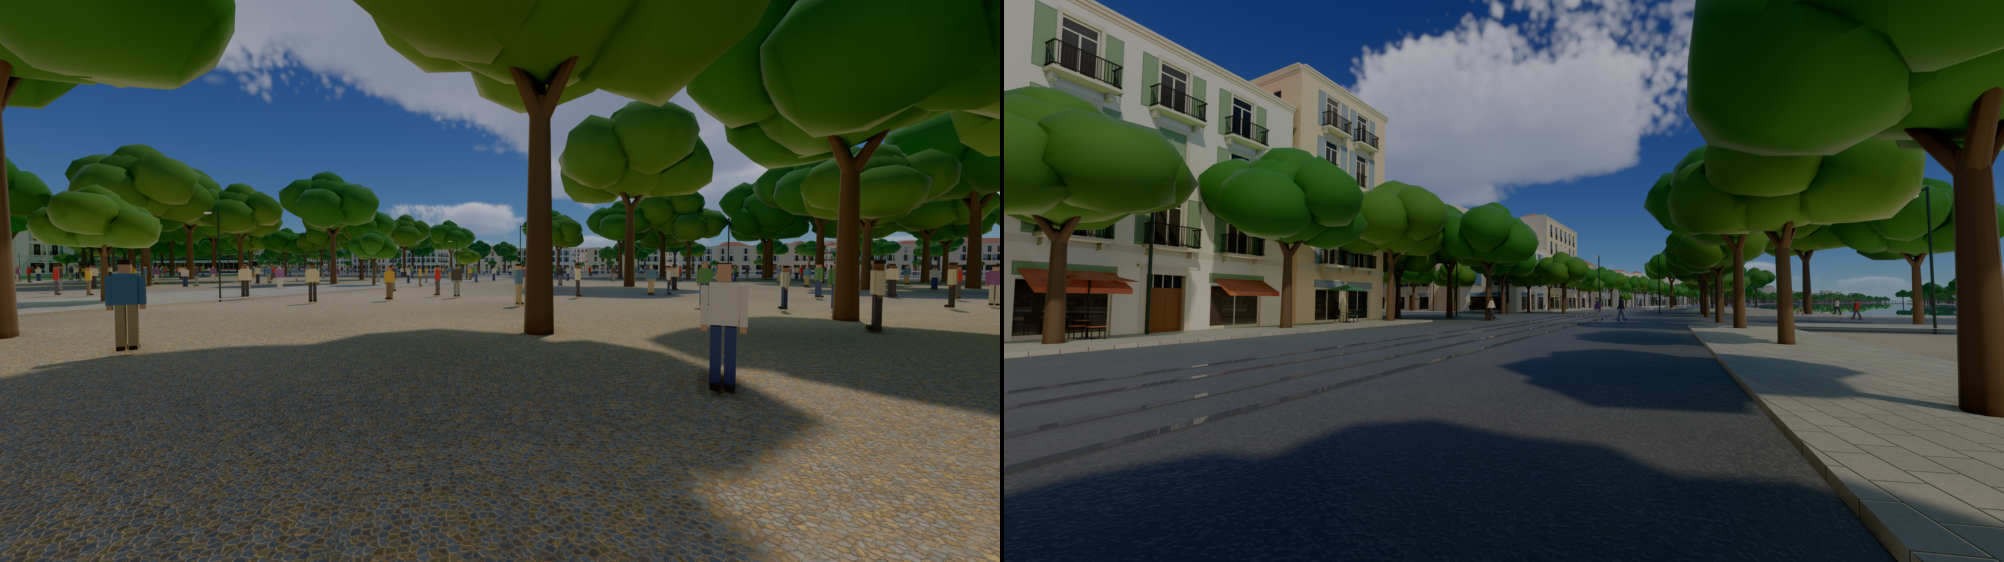
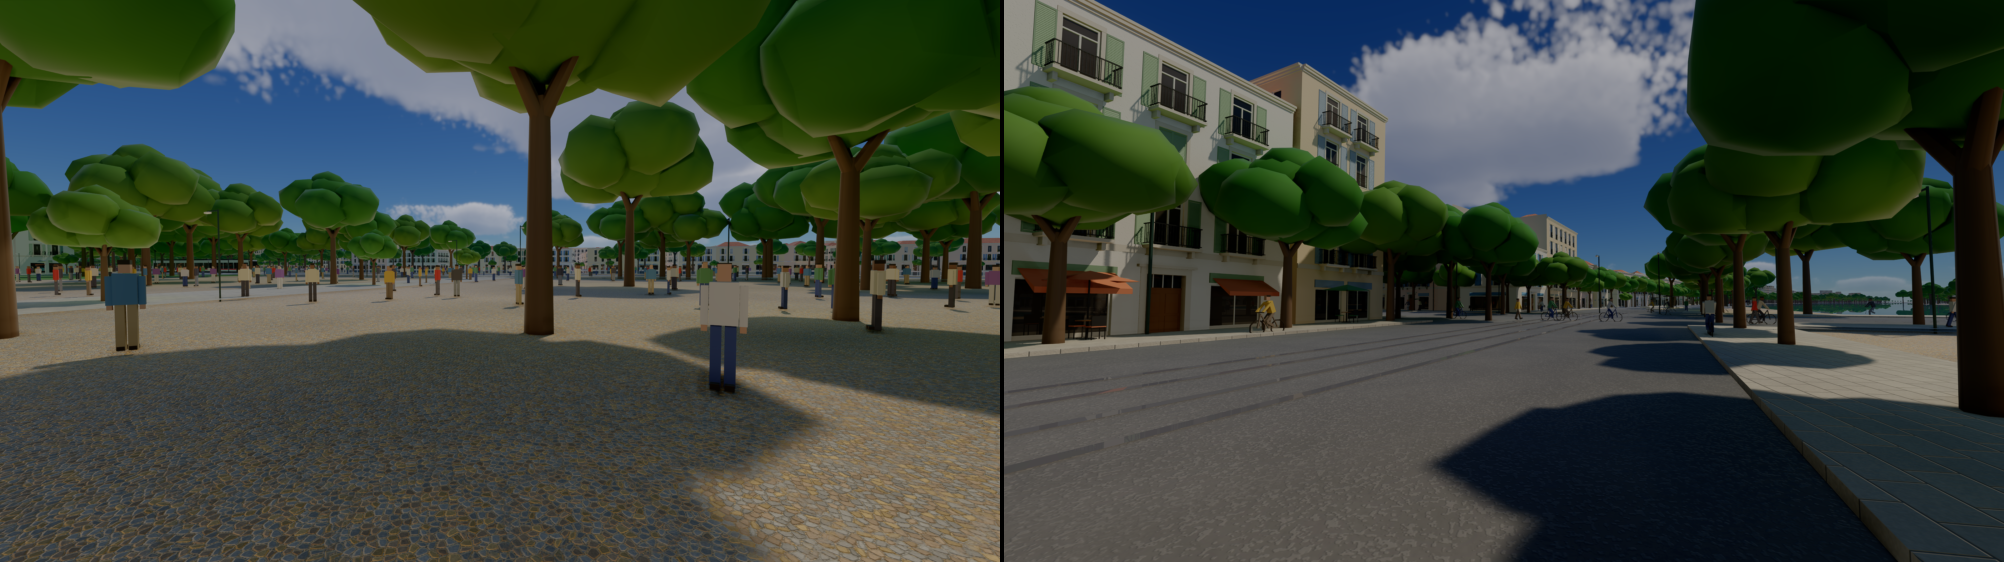
Crowd: cyclists in the carriageway's lanes (D-059's step 6)
forge_geom::figures::cyclist: a rider upright on a city bike. Trips quicker than a walk but no
quicker than 6.5 m/s are drawn riding in the right lane of each street on their way; the
walkers keep the pavements; faster trips ride the trams and are not drawn yet. Each palette
now has three meshes: walking, standing, riding.

diff --git a/demos/city-plan/src/crowd.rs b/demos/city-plan/src/crowd.rs
@@ -1,10 +1,12 @@
-//! The population on foot round the camera (D-059's step 6; `population-simulation.md`'s T0: the
-//! drawn crowd is the real population). The plan's people (`forge_sim::population`) run on the
-//! game's clock, four game seconds a real second. Those walking within [`REACH`] of the camera
-//! are drawn as placeholder figures (`forge_geom::figures`) on the pavements of their route:
-//! the road graph's shortest way (A*) from the street nearest where they set out to the street
-//! nearest where they go, walked at the pace their trip's time gives. Trips quicker than a walk
-//! (by bike or tram) are not drawn yet.
+//! The population on the streets round the camera (D-059's step 6; `population-simulation.md`'s
+//! T0: the drawn crowd is the real population). The plan's people (`forge_sim::population`) run
+//! on the real clock here (see [`TIME_SCALE`]). Those within [`REACH`] of the camera are drawn as
+//! placeholder figures (`forge_geom::figures`):
+//! - on their way, along the road graph's shortest way (A*) from the street nearest where they set
+//!   out to the street nearest where they go, at the pace their trip's time gives: walking on the
+//!   pavement, or riding a bike in the carriageway's right lane when quicker than a walk (trips
+//!   quicker than a bike ride the trams, and are not drawn yet);
+//! - in a park, standing about it.
 
 use std::cmp::Reverse;
 use std::collections::{BinaryHeap, HashMap};
@@ -18,7 +20,7 @@ use glam::{DVec2, Vec2, Vec3};
 
 /// The figures' palettes.
 pub const GROUPS: usize = 8;
-/// Figures a mesh (a palette walking, or standing) shows at most.
+/// Figures a mesh (a palette walking, standing or riding) shows at most.
 pub const PER_MESH: usize = 60;
 /// How far round the camera people are drawn, metres.
 const REACH: f64 = 220.0;
@@ -30,13 +32,15 @@ const TIME_SCALE: f64 = 1.0;
 const NEW_ROUTES: usize = 40;
 /// The fastest a drawn walker goes, m/s.
 const WALK_MAX: f64 = 2.2;
+/// The fastest a drawn cyclist goes, m/s; faster trips ride the trams.
+const RIDE_MAX: f64 = 6.5;
 
-/// A walk along the streets: its points and, per segment, how far right of the line the
-/// pavement runs.
+/// A way along the streets: its points and, per segment, its street's half width and its
+/// pavement's level.
 struct Route {
     points: Vec<DVec2>,
     along: Vec<f64>,
-    side: Vec<f64>,
+    half: Vec<f64>,
     level: Vec<f32>,
 }
 
@@ -45,9 +49,9 @@ impl Route {
         self.along[self.along.len() - 1]
     }
 
-    /// The point `s` metres along, on the pavement to the right, the way it faces and the
-    /// pavement's level.
-    fn at(&self, s: f64) -> (DVec2, DVec2, f32) {
+    /// The point `s` metres along, on the right: the pavement on foot, the carriageway's lane
+    /// riding; the way it faces and the ground's level there.
+    fn at(&self, s: f64, riding: bool) -> (DVec2, DVec2, f32) {
         let s = s.clamp(0.0, self.length());
         let i = self
             .along
@@ -63,11 +67,13 @@ impl Route {
         let dir = (b - a).normalize_or_zero();
         // In the plan's frame (y south) the right of the way is (-dy, dx).
         let right = DVec2::new(-dir.y, dir.x);
-        (
-            a + (b - a) * t + right * self.side[i - 1],
-            dir,
-            self.level[i - 1],
-        )
+        let half = self.half[i - 1];
+        let (side, level) = if riding {
+            ((half - 4.5).max(1.2), 0.16)
+        } else {
+            ((half - 2.0).max(1.0), self.level[i - 1])
+        };
+        (a + (b - a) * t + right * side, dir, level)
     }
 }
 
@@ -131,8 +137,8 @@ impl Crowd {
         for (i, e) in plan.roads.edges.iter().enumerate() {
             adj[e.a as usize].push((e.b, i as u32, true));
             adj[e.b as usize].push((e.a, i as u32, false));
-            // The pavement: two metres in from the street's edge; the avenues' raised.
-            let side = (e.profile.width() * 0.5 - 2.0).max(1.0);
+            // The street's half width, and its pavement's level: the avenues' raised.
+            let side = e.profile.width() * 0.5;
             let level = match e.profile {
                 Profile::TramAvenue | Profile::Avenue => 0.30,
                 _ => 0.16,
@@ -169,12 +175,12 @@ impl Crowd {
     }
 
     /// The figures to draw round `camera` (the world's x and z): for each of the
-    /// `2 × GROUPS` meshes in order (each palette walking, then standing), up to [`PER_MESH`]
+    /// `3 × GROUPS` meshes in order (each palette walking, standing, riding), up to [`PER_MESH`]
     /// places and turns.
     pub fn figures(&mut self, camera: Vec2) -> Vec<Vec<(Vec3, f32)>> {
         let half = self.size * 0.5;
         let c = DVec2::new(f64::from(camera.x) + half, f64::from(camera.y) + half);
-        let mut out = vec![Vec::new(); 2 * GROUPS];
+        let mut out = vec![Vec::new(); 3 * GROUPS];
         let mut budget = NEW_ROUTES;
         let places = &self.sim.world.places;
         let now = self.clock;
@@ -191,7 +197,7 @@ impl Crowd {
                         f64::from(q[0]) + jitter(s),
                         f64::from(q[1]) + jitter(s >> 8),
                     );
-                    let mesh = (s as usize % GROUPS) * 2 + 1;
+                    let mesh = (s as usize % GROUPS) * 3 + 1;
                     let inside = self.parks.iter().any(|p| geom::contains(p, q));
                     if inside && q.distance(c) <= REACH && out[mesh].len() < PER_MESH {
                         let at = Vec3::new((q.x - half) as f32, 0.08, (q.y - half) as f32);
@@ -219,18 +225,20 @@ impl Crowd {
                 budget -= 1;
                 let route = self
                     .route(a, b)
-                    .filter(|r| r.length() / f64::from(trip.time.max(1)) <= WALK_MAX);
+                    .filter(|r| r.length() / f64::from(trip.time.max(1)) <= RIDE_MAX);
                 self.routes.insert(key, route);
             }
             let Some(Some(route)) = self.routes.get(&key) else {
                 continue;
             };
-            let (q, dir, level) = route.at(gone * route.length());
+            // On foot, or riding a bike: by the pace the trip's time gives.
+            let riding = route.length() / f64::from(trip.time.max(1)) > WALK_MAX;
+            let (q, dir, level) = route.at(gone * route.length(), riding);
             if q.distance(c) > REACH {
                 continue;
             }
             let seed = self.sim.pop.seed[p];
-            let mesh = (seed as usize % GROUPS) * 2;
+            let mesh = (seed as usize % GROUPS) * 3 + if riding { 2 } else { 0 };
             if out[mesh].len() >= PER_MESH {
                 continue;
             }
@@ -295,7 +303,7 @@ impl Crowd {
         }
         legs.reverse();
         let mut points = Vec::new();
-        let mut side = Vec::new();
+        let mut half = Vec::new();
         let mut level = Vec::new();
         for (e, fwd) in legs {
             let (pts, s, l) = &self.plan_edges[e as usize];
@@ -308,7 +316,7 @@ impl Crowd {
                     continue;
                 }
                 points.push(p);
-                side.push(*s);
+                half.push(*s);
                 level.push(*l as f32);
             }
         }
@@ -322,7 +330,7 @@ impl Crowd {
         Some(Route {
             points,
             along,
-            side,
+            half,
             level,
         })
     }

diff --git a/crates/forge-geom/src/figures.rs b/crates/forge-geom/src/figures.rs
@@ -106,6 +106,105 @@ pub fn walker(height: f32, stride: f32) -> TriMesh {
     m
 }
 
+/// A cyclist on a city bike, riding along `+x`: two wheels (shoes' section, their tyres), the
+/// frame and the handlebars (bottom's), the rider upright on the saddle, hands on the bars.
+pub fn cyclist(height: f32) -> TriMesh {
+    let mut m = TriMesh::default();
+    let k = height / 1.72;
+    let r = 0.34;
+    // The wheels: thin octagonal rings in the x–y plane, as boxes round each rim.
+    for cx in [-0.52, 0.52] {
+        for i in 0..8 {
+            let a = i as f32 / 8.0 * std::f32::consts::TAU;
+            let at = Vec3::new(cx + a.cos() * r, r + a.sin() * r, 0.0);
+            part(
+                &mut m,
+                at,
+                Vec3::new(0.02, 0.135, 0.02),
+                Quat::from_rotation_z(a),
+                SHOES,
+            );
+        }
+    }
+    // The frame: down tube, top tube, seat post, fork, the bars.
+    let bar = |m: &mut TriMesh, a: Vec3, b: Vec3, w: f32, section: u8| {
+        let d = b - a;
+        let r = Quat::from_rotation_arc(Vec3::Y, d.normalize());
+        part(
+            m,
+            (a + b) * 0.5,
+            Vec3::new(w, d.length() * 0.5, w),
+            r,
+            section,
+        );
+    };
+    let (rear, front) = (Vec3::new(-0.52, r, 0.0), Vec3::new(0.52, r, 0.0));
+    let (seat, head) = (Vec3::new(-0.18, 0.95, 0.0), Vec3::new(0.38, 0.98, 0.0));
+    let crank = Vec3::new(-0.05, 0.32, 0.0);
+    bar(&mut m, rear, seat, 0.02, BOTTOM);
+    bar(&mut m, crank, seat, 0.025, BOTTOM);
+    bar(&mut m, crank, head, 0.025, BOTTOM);
+    bar(&mut m, rear, crank, 0.02, BOTTOM);
+    bar(&mut m, front, head, 0.025, BOTTOM);
+    part(
+        &mut m,
+        head + Vec3::new(0.05, 0.08, 0.0),
+        Vec3::new(0.02, 0.02, 0.28),
+        Quat::IDENTITY,
+        SHOES,
+    );
+    // The rider: hips over the saddle, legs to the pedals, the body leaning to the bars.
+    let hip = seat + Vec3::new(0.0, 0.1, 0.0);
+    for (z, foot) in [
+        (0.1, Vec3::new(0.12, 0.25, 0.1)),
+        (-0.1, Vec3::new(-0.2, 0.42, -0.1)),
+    ] {
+        let knee = Vec3::new(0.15, 0.62, z);
+        bar(
+            &mut m,
+            hip + Vec3::new(0.0, 0.0, z),
+            knee,
+            0.065 * k,
+            BOTTOM,
+        );
+        bar(&mut m, knee, foot, 0.06 * k, BOTTOM);
+    }
+    let shoulder = hip + Vec3::new(0.2, 0.55 * k, 0.0);
+    let lean = Quat::from_rotation_arc(Vec3::Y, (shoulder - hip).normalize());
+    part(
+        &mut m,
+        (hip + shoulder) * 0.5,
+        Vec3::new(0.11, (shoulder - hip).length() * 0.5, 0.18) * Vec3::new(k, 1.0, k),
+        lean,
+        TOP,
+    );
+    for z in [0.22, -0.22] {
+        bar(
+            &mut m,
+            shoulder + Vec3::new(0.0, -0.04, z),
+            head + Vec3::new(0.05, 0.08, z * 0.9),
+            0.045 * k,
+            TOP,
+        );
+    }
+    let face = shoulder + Vec3::new(0.06, 0.18 * k, 0.0);
+    part(
+        &mut m,
+        face,
+        Vec3::new(0.1, 0.12, 0.085) * k,
+        Quat::IDENTITY,
+        SKIN,
+    );
+    part(
+        &mut m,
+        face + Vec3::new(-0.015, 0.09, 0.0) * k,
+        Vec3::new(0.105, 0.045, 0.09) * k,
+        Quat::IDENTITY,
+        SHOES,
+    );
+    m
+}
+
 #[cfg(test)]
 mod tests {
     use super::*;
@@ -124,5 +223,22 @@ mod tests {
             assert!(m.sections.iter().all(|&s| s < SECTIONS));
             assert_eq!(m.sections.len(), m.triangle_count());
         }
+    }
+
+    #[test]
+    fn a_cyclist_rides_on_its_wheels() {
+        let m = cyclist(1.72);
+        let (lo, hi) = m.positions.iter().fold(
+            (Vec3::splat(f32::MAX), Vec3::splat(f32::MIN)),
+            |(lo, hi), p| (lo.min(Vec3::from(*p)), hi.max(Vec3::from(*p))),
+        );
+        assert!(lo.y.abs() < 0.05, "{lo}");
+        assert!(hi.y > 1.5 && hi.y < 2.0, "{hi}");
+        assert!(lo.x > -1.0 && hi.x < 1.0 && hi.z.abs() < 0.4);
+        assert!(
+            m.normals
+                .iter()
+                .all(|n| (Vec3::from(*n).length() - 1.0).abs() < 1e-3)
+        );
     }
 }

diff --git a/demos/city-plan/src/lib.rs b/demos/city-plan/src/lib.rs
@@ -1369,15 +1369,17 @@ impl Scenario for PlanScenario {
             let n = run.timetable.vehicles() as u32;
             tram_movers.extend([(cab, 2 * n), (middle, (TRAM_SECTIONS as u32 - 2) * n)]);
         }
-        // The crowd's figures: each palette walking and standing, a mesh each.
+        // The crowd's figures: each palette walking, standing (the parks' people) and riding,
+        // a mesh each.
         if self.crowd.is_some() {
             for (g, &row) in people_rows.iter().enumerate().take(crowd::GROUPS) {
-                // A stride for the walkers, standing for the parks' people.
-                for stride in [0.3, 0.0] {
-                    let height = 1.62 + 0.04 * (g % 5) as f32;
-                    let mesh = builder.add_mesh(&MeshletMesh::build(&forge_geom::figures::walker(
-                        height, stride,
-                    )));
+                let height = 1.62 + 0.04 * (g % 5) as f32;
+                for figure in [
+                    forge_geom::figures::walker(height, 0.3),
+                    forge_geom::figures::walker(height, 0.0),
+                    forge_geom::figures::cyclist(height),
+                ] {
+                    let mesh = builder.add_mesh(&MeshletMesh::build(&figure));
                     builder.set_mesh_material(mesh, row);
                     tram_movers.push((mesh, crowd::PER_MESH as u32));
                 }

diff --git a/docs/demos/city-plan.md b/docs/demos/city-plan.md
@@ -288,17 +288,19 @@ cargo run --release -p city-plan -- --street --people 16.3   # from 16:18
 
 ![People](images/city-plan-people.png)
 
-*From 16:18: the park's visitors standing about it, and the evening's walkers on the river
-avenue.* `--people HOUR` builds the plan's population from the masses (`forge_sim::population`,
-295 789 people, 2 s) and runs its day to that hour. Each frame:
+*From 16:18, the park's visitors standing about it; at 08:12, the morning's cyclists in the
+river avenue's lanes and walkers on its pavements.* `--people HOUR` builds the plan's population
+from the masses (`forge_sim::population`, 295 789 people, 2 s) and runs its day to that hour.
+Each frame:
 - **who is drawn:** people within 220 m of the camera, as placeholder figures
-  (`forge_geom::figures`: blocky, in eight palettes, walking or standing);
-- **those on foot:** each walks the shortest way along the streets (A* on the road graph) from
-  the street nearest their start to the street nearest their goal, on its pavement, at the pace
-  their trip's time gives;
-- **those in a park:** they stand about it.
+  (`forge_geom::figures`: blocky, in eight palettes, walking, standing or riding a bike);
+- **those on their way:** each goes the shortest way along the streets (A* on the road graph)
+  from the street nearest their start to the street nearest their goal, at the pace their
+  trip's time gives: on the pavement up to 2.2 m/s, by bike in the carriageway's right lane up
+  to 6.5 m/s;
+- **those in a park:** they stand about it, kept 9 m inside its streets.
 
-Trips quicker than a walk (bike, tram) are not drawn yet. The drawn crowd runs on the real
+Faster trips ride the trams and are not drawn yet. The drawn crowd runs on the real
 clock, a game second a second: at the game's four, its walkers would cross the screen at
 5 m/s, and how the two clocks meet near the player is D-059's open question. #251's humans
 replace the figures.
